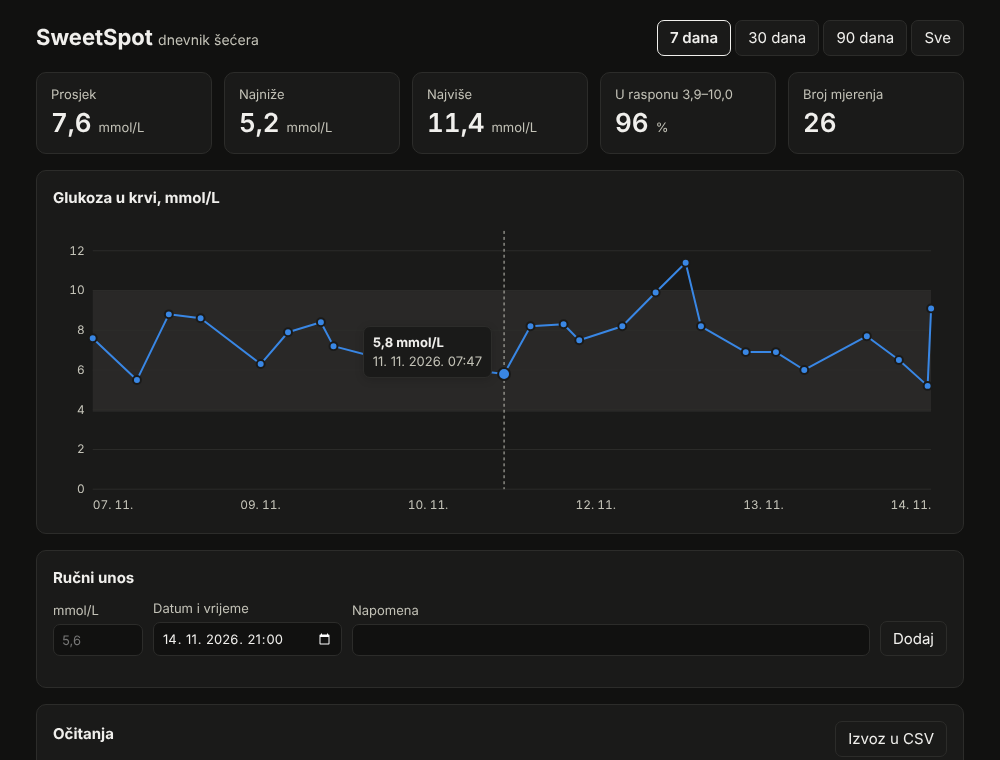
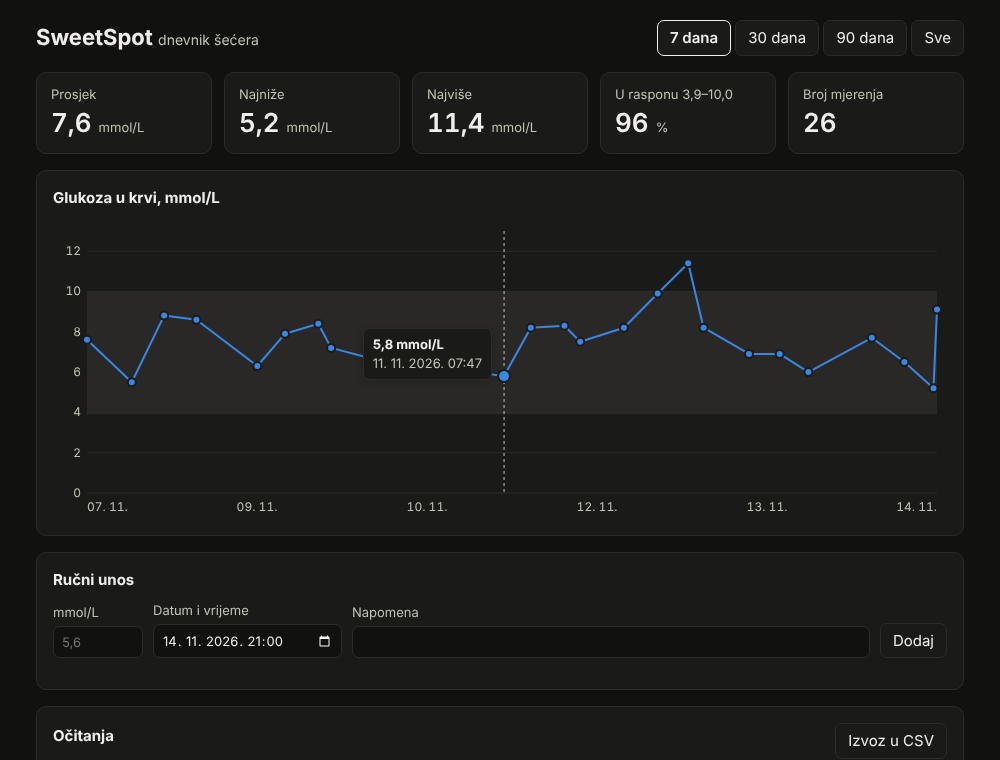
Web sučelje: čitljiv grafikon i tablica bez lomljenja na mobitelu (v1.2.1)
Grafikon se crta u stvarnoj širini zaslona pa su brojke na osima uvijek iste
veličine. Na uskom zaslonu tablica skriva stupac Izvor, napomenu prikazuje
ispod datuma, a ćelije se više ne lome u više redaka.

Claude-Session: https://claude.ai/code/session_019WLh2ZPH6Ey97vEFrHjawR

diff --git a/server/index.html b/server/index.html
@@ -41,16 +41,31 @@
   input[name=mmol] { width: 90px; } input[name=note] { width: 100%; }
   label.grow { flex: 1 1 180px; }
   #chart-wrap { position: relative; }
-  svg { display: block; width: 100%; height: auto; }
+  svg { display: block; width: 100%; }
   svg text { fill: var(--text-secondary); font-size: 12px; font-variant-numeric: tabular-nums; }
   #tip { position: absolute; pointer-events: none; background: var(--surface-1); border: 1px solid var(--grid);
          border-radius: 7px; padding: 6px 9px; font-size: 13px; white-space: nowrap; display: none;
          box-shadow: 0 2px 8px rgba(0,0,0,.15); }
   table { width: 100%; border-collapse: collapse; font-variant-numeric: tabular-nums; }
-  th, td { text-align: left; padding: 7px 8px; border-bottom: 1px solid var(--grid); }
+  th, td { text-align: left; padding: 7px 8px; border-bottom: 1px solid var(--grid); white-space: nowrap; }
+  td.note { white-space: normal; min-width: 8em; }
+  .note-inline { display: none; white-space: normal; font-size: 13px; color: var(--text-secondary); }
+  .short { display: none; }
   th { font-size: 13px; color: var(--text-secondary); font-weight: 500; }
   td.num { font-weight: 600; }
   td button { padding: 2px 8px; font-size: 13px; }
+  td.actions { text-align: right; width: 1%; }
+  @media (max-width: 640px) {
+    main { padding: 16px 12px 40px; }
+    .card { padding: 14px 12px; }
+    th, td { padding: 7px 5px; }
+    th:first-child, td:first-child { padding-left: 0; }
+    th:last-child, td:last-child { padding-right: 0; }
+    .col-source, .col-note { display: none; }
+    .note-inline { display: block; }
+    .long { display: none; }
+    .short { display: inline; }
+  }
   .muted { color: var(--text-secondary); }
   .scroll { overflow-x: auto; }
 </style>
@@ -88,7 +103,7 @@
   <section class="card">
     <header><h2>Očitanja</h2><a class="button" href="/api/export.csv">Izvoz u CSV</a></header>
     <div class="scroll"><table>
-      <thead><tr><th>Datum</th><th>Vrijeme</th><th>mmol/L</th><th>Izvor</th><th>Napomena</th><th></th></tr></thead>
+      <thead><tr><th>Datum</th><th>Vrijeme</th><th>mmol/L</th><th class="col-source">Izvor</th><th class="col-note">Napomena</th><th></th></tr></thead>
       <tbody id="rows"></tbody>
     </table></div>
   </section>
@@ -127,17 +142,24 @@ function render() {
   ].join("") : tile("Broj mjerenja", 0);
 
   $("rows").innerHTML = rows.map(r => `<tr>
-      <td>${fmtDate(r.date)}</td><td>${fmtTime(r.date)}</td><td class="num">${fmt(r.mmol)}</td>
-      <td>${esc(r.source)}</td><td>${esc(r.note)}</td>
-      <td><button data-id="${r.id}" aria-label="Obriši očitanje">Obriši</button></td></tr>`).join("")
+      <td>${fmtDate(r.date)}${r.note ? `<div class="note-inline">${esc(r.note)}</div>` : ""}</td>
+      <td>${fmtTime(r.date)}</td><td class="num">${fmt(r.mmol)}</td>
+      <td class="col-source">${esc(r.source)}</td><td class="note col-note">${esc(r.note)}</td>
+      <td class="actions"><button data-id="${r.id}" aria-label="Obriši očitanje" title="Obriši"><span class="long">Obriši</span><span class="short" aria-hidden="true">✕</span></button></td></tr>`).join("")
     || `<tr><td colspan="6" class="muted">Nema očitanja u ovom razdoblju.</td></tr>`;
-  drawChart(rows.slice().reverse());
+  chartRows = rows.slice().reverse();
+  drawChart();
 }
 
-let points = [];
-function drawChart(rows) {
-  const W = 900, H = 300, m = {l: 40, r: 16, t: 12, b: 28};
-  const svg = $("chart");
+let points = [], chartRows = [], chartW = 900;
+function drawChart() {
+  const rows = chartRows, svg = $("chart");
+  const W = Math.max(260, Math.round($("chart-wrap").clientWidth || 900));
+  const narrow = W < 560, H = narrow ? 220 : 300;
+  const m = {l: narrow ? 26 : 34, r: 10, t: 12, b: 26};
+  chartW = W;
+  svg.setAttribute("viewBox", `0 0 ${W} ${H}`);
+  svg.setAttribute("height", H);
   if (!rows.length) { svg.innerHTML = `<text x="${W / 2}" y="${H / 2}" text-anchor="middle">Nema podataka</text>`; points = []; return; }
   const t0 = +rows[0].date, t1 = Math.max(+rows[rows.length - 1].date, t0 + 36e5);
   const yMax = Math.max(12, Math.ceil(Math.max(...rows.map(r => r.mmol)) + 1));
@@ -146,8 +168,8 @@ function drawChart(rows) {
   let s = `<rect x="${m.l}" y="${y(HIGH)}" width="${W - m.l - m.r}" height="${y(LOW) - y(HIGH)}" fill="var(--band)"/>`;
   for (let v = 0; v <= yMax; v += yMax > 16 ? 4 : 2)
     s += `<line x1="${m.l}" x2="${W - m.r}" y1="${y(v)}" y2="${y(v)}" stroke="var(--grid)"/>
-          <text x="${m.l - 8}" y="${y(v) + 4}" text-anchor="end">${v}</text>`;
-  const ticks = 5;
+          <text x="${m.l - 6}" y="${y(v) + 4}" text-anchor="end">${v}</text>`;
+  const ticks = narrow ? 3 : 5;
   for (let i = 0; i <= ticks; i++) {
     const t = t0 + (t1 - t0) * i / ticks, d = new Date(t);
     const text = t1 - t0 < 2 * 864e5 ? fmtTime(d) : d.toLocaleDateString("hr-HR", {day: "numeric", month: "numeric"});
@@ -156,8 +178,9 @@ function drawChart(rows) {
   points = rows.map(r => ({x: x(+r.date), y: y(r.mmol), r}));
   s += `<polyline fill="none" stroke="var(--series-1)" stroke-width="2" stroke-linejoin="round"
         points="${points.map(p => `${p.x.toFixed(1)},${p.y.toFixed(1)}`).join(" ")}"/>`;
-  if (points.length <= 120)
-    s += points.map(p => `<circle cx="${p.x.toFixed(1)}" cy="${p.y.toFixed(1)}" r="4" fill="var(--series-1)" stroke="var(--surface-1)" stroke-width="2"/>`).join("");
+  // točke samo kad ima mjesta (najmanje ~8 px po mjerenju)
+  if (points.length <= (W - m.l - m.r) / 8)
+    s += points.map(p => `<circle cx="${p.x.toFixed(1)}" cy="${p.y.toFixed(1)}" r="${narrow ? 3 : 4}" fill="var(--series-1)" stroke="var(--surface-1)" stroke-width="${narrow ? 1.5 : 2}"/>`).join("");
   s += `<line id="cross" y1="${m.t}" y2="${H - m.b}" stroke="var(--text-secondary)" stroke-dasharray="3 3" visibility="hidden"/>
         <circle id="dot" r="6" fill="var(--series-1)" stroke="var(--surface-1)" stroke-width="2" visibility="hidden"/>`;
   svg.innerHTML = s;
@@ -165,7 +188,7 @@ function drawChart(rows) {
 
 $("chart").addEventListener("pointermove", e => {
   if (!points.length) return;
-  const box = $("chart").getBoundingClientRect(), scale = 900 / box.width;
+  const box = $("chart").getBoundingClientRect(), scale = chartW / box.width;
   const px = (e.clientX - box.left) * scale;
   const p = points.reduce((a, b) => Math.abs(b.x - px) < Math.abs(a.x - px) ? b : a);
   $("cross").setAttribute("x1", p.x); $("cross").setAttribute("x2", p.x);
@@ -179,6 +202,11 @@ $("chart").addEventListener("pointermove", e => {
   tip.style.right = right ? box.width - left + 12 + "px" : "";
   tip.style.top = Math.max(0, p.y / scale - 48) + "px";
 });
+let lastWidth = 0;
+new ResizeObserver(entries => {
+  const width = Math.round(entries[0].contentRect.width);
+  if (width && width !== lastWidth) { lastWidth = width; drawChart(); }
+}).observe($("chart-wrap"));
 $("chart").addEventListener("pointerleave", () => {
   $("tip").style.display = "none";
   ["cross", "dot"].forEach(id => $(id)?.setAttribute("visibility", "hidden"));

diff --git a/README.md b/README.md
@@ -20,6 +20,10 @@ Tema se prilagođava postavci sustava (svijetla ili tamna).
 
 ![Web sučelje SweetSpot, tamna tema](docs/screenshots/web-tamna.png)
 
+Na mobitelu:
+
+![Web sučelje SweetSpot na mobitelu](docs/screenshots/web-mobitel.png)
+
 ### Agent za Windows
 
 | Postavke | Čarobnjak: priprema |
